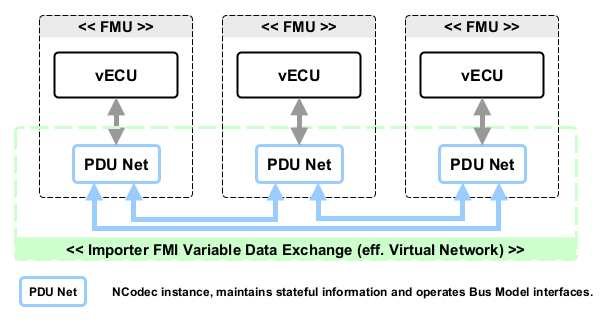
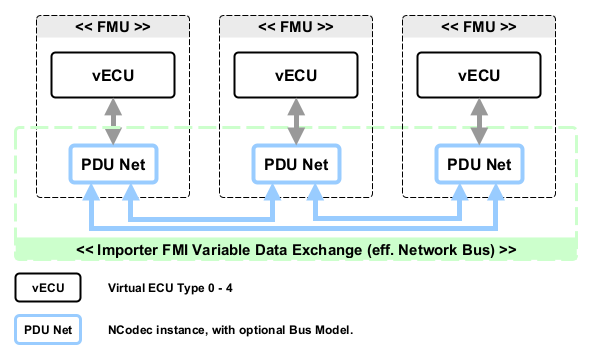
Update drawings.

diff --git a/modelica/fmi-ls-pdunet/README.md b/modelica/fmi-ls-pdunet/README.md
@@ -105,7 +105,7 @@ There are no limitations with the application of this Layered Standard to either
 <!-- links -->
 [pdunet-embedded-simulation]: fmi-ls-pdunet-embedded-simulation.png
 [pdunet-bus-topo]: fmi-ls-pdunet-bus-topology.png
-[pdunet-embedded-simbus]: fmi-ls-pdunet-embedded-simbus.png
+[pdunet-embedded-simbus]: fmi-ls-pdunet-embedded-netbus.png
 [dse-modelc]: https://github.com/boschglobal/dse.modelc/blob/main/dse/modelc/pdunet.h
 [dse-ncodec]: https://github.com/boschglobal/dse.ncodec
 [automotive-bus-schmea-pdu-stream]: https://github.com/boschglobal/automotive-bus-schema/blob/main/schemas/stream/pdu.fbs
